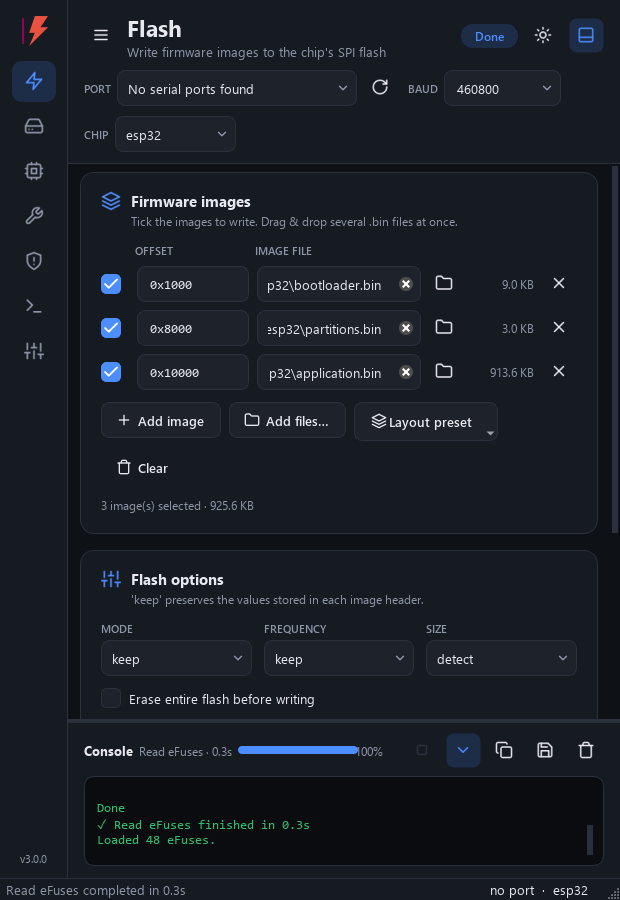
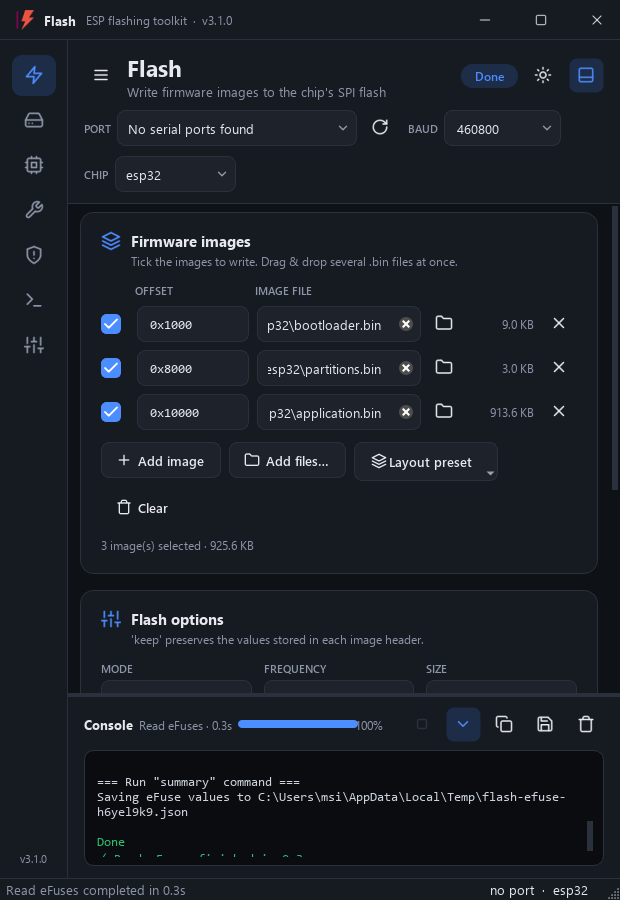
update version to 3.1.0 and implement custom title bar with window controls

diff --git a/src/flash/ui/titlebar.py b/src/flash/ui/titlebar.py
@@ -1,0 +1,229 @@
+#!/usr/bin/env python
+# coding=utf-8
+#? -------------------------------------------------------------------------------
+#?
+#?             __  _ __  __     __
+#?            / /_(_) /_/ /__  / /_  ____ ______
+#?           / __/ / __/ / _ \/ __ \/ __ `/ ___/
+#?          / /_/ / /_/ /  __/ /_/ / /_/ / /
+#?          \__/_/\__/_/\___/_.___/\__,_/_/
+#?
+#?
+#? Name:        titlebar.py
+#? Purpose:     Custom window chrome: a modern title bar (icon, title, minimize / maximize / close) and the frameless
+#?              window plumbing behind it. Dragging and edge-resizing are handed to the OS (startSystemMove /
+#?              startSystemResize), so Windows snap layouts, Aero shake and Linux window managers keep working.
+#?
+#? Author:      Mohamed Gueni ( mohamedgueni@outlook.com)
+#?
+#? Created:     05/09/2019
+#? -------------------------------------------------------------------------------
+#? -------------------------------------------------------------------------------
+from    __future__                  import  annotations
+
+import  sys
+
+from    PySide6.QtCore              import  QEvent, QObject, QPoint, QSize, Qt
+from    PySide6.QtGui               import  QIcon
+from    PySide6.QtWidgets           import  QApplication, QFrame, QHBoxLayout, QLabel, QToolButton, QWidget
+
+from    flash.ui.theme              import  theme
+from    flash.ui.widgets            import  set_icon
+#?----------------------------------------------------------------------------------------------------------------------------------------
+TITLEBAR_HEIGHT             = 40
+RESIZE_MARGIN               = 6                                                        # px from the window edge that start a resize
+#?----------------------------------------------------------------------------------------------------------------------------------------
+class TitleBar(QFrame):
+    """Draggable title bar with window buttons. Double-click toggles maximize."""
+
+    def __init__(self, window: QWidget, icon: QIcon, title: str, subtitle: str = "") -> None:
+        super().__init__(window)
+        self.setObjectName("TitleBar")
+        self.setFixedHeight(TITLEBAR_HEIGHT)
+        self._window        = window
+
+        lay                 = QHBoxLayout(self)
+        lay.setContentsMargins(14, 0, 0, 0)
+        lay.setSpacing(10)
+
+        self.icon_label     = QLabel()
+        self.icon_label.setPixmap(icon.pixmap(QSize(20, 20)))
+        self.icon_label.setAttribute(Qt.WidgetAttribute.WA_TransparentForMouseEvents)
+        lay.addWidget(self.icon_label)
+
+        self.title_label    = QLabel(title)
+        self.title_label.setObjectName("TitleText")
+        self.title_label.setAttribute(Qt.WidgetAttribute.WA_TransparentForMouseEvents)
+        lay.addWidget(self.title_label)
+
+        self.subtitle_label = QLabel(subtitle)
+        self.subtitle_label.setObjectName("TitleSub")
+        self.subtitle_label.setAttribute(Qt.WidgetAttribute.WA_TransparentForMouseEvents)
+        lay.addWidget(self.subtitle_label)
+        lay.addStretch(1)
+
+        self.min_btn        = self._window_button("win-min", "Minimize", window.showMinimized)
+        self.max_btn        = self._window_button("win-max", "Maximize", self.toggle_maximize)
+        self.close_btn      = self._window_button("win-close", "Close", window.close)
+        self.close_btn.setObjectName("WinClose")
+        self.close_btn.installEventFilter(self)                                        # white glyph on the red hover background
+        for b in (self.min_btn, self.max_btn, self.close_btn):
+            lay.addWidget(b)
+
+        window.installEventFilter(self)
+        theme().changed.connect(lambda *_: self.sync_state())
+        self.sync_state()
+
+    def _window_button(self, icon_name: str, tip: str, slot) -> QToolButton:
+        b                   = QToolButton()
+        b.setObjectName("WinButton")
+        b.setToolTip(tip)
+        b.setFixedSize(46, TITLEBAR_HEIGHT)
+        b.setIconSize(QSize(14, 14))
+        b.setFocusPolicy(Qt.FocusPolicy.NoFocus)
+        b.clicked.connect(slot)
+        set_icon(b, icon_name, "text")
+        return b
+
+    #?------------------------------------------------------------------------------------------------------------------------------------
+    #? Behaviour
+    #?------------------------------------------------------------------------------------------------------------------------------------
+    def toggle_maximize(self) -> None:
+        w                   = self._window
+        w.showNormal() if w.isMaximized() else w.showMaximized()
+
+    def sync_state(self) -> None:
+        maximized           = self._window.isMaximized()
+        set_icon(self.max_btn, "win-restore" if maximized else "win-max", "text")
+        self.max_btn.setToolTip("Restore down" if maximized else "Maximize")
+        active              = self._window.isActiveWindow()
+        for label in (self.title_label, self.subtitle_label, self.icon_label):
+            label.setEnabled(active)                                                   # dims the title when the window is inactive
+
+    def eventFilter(self, obj: QObject, event: QEvent) -> bool:                        # noqa: N802
+        etype               = event.type()
+        if obj is self._window and etype in (QEvent.Type.WindowStateChange, QEvent.Type.ActivationChange):
+            self.sync_state()
+        elif obj is self.close_btn and etype == QEvent.Type.Enter:
+            self.close_btn.setIcon(theme().icon("win-close", "#ffffff"))
+        elif obj is self.close_btn and etype == QEvent.Type.Leave:
+            set_icon(self.close_btn, "win-close", "text")
+        return False
+
+    def mousePressEvent(self, event) -> None:                                          # noqa: N802
+        if event.button() == Qt.MouseButton.LeftButton and self._window.windowHandle() is not None:
+            self._window.windowHandle().startSystemMove()                              # native drag: snap, multi-monitor, restore-on-drag
+            event.accept()
+            return
+        super().mousePressEvent(event)
+
+    def mouseDoubleClickEvent(self, event) -> None:                                    # noqa: N802
+        if event.button() == Qt.MouseButton.LeftButton:
+            self.toggle_maximize()
+            event.accept()
+            return
+        super().mouseDoubleClickEvent(event)
+#?----------------------------------------------------------------------------------------------------------------------------------------
+class FramelessResizer(QObject):
+    """Lets a frameless window be resized from its edges by watching mouse moves on its QWindow."""
+
+    EDGE_CURSORS            = {
+        Qt.Edge.LeftEdge: Qt.CursorShape.SizeHorCursor,
+        Qt.Edge.RightEdge: Qt.CursorShape.SizeHorCursor,
+        Qt.Edge.TopEdge: Qt.CursorShape.SizeVerCursor,
+        Qt.Edge.BottomEdge: Qt.CursorShape.SizeVerCursor,
+        Qt.Edge.LeftEdge | Qt.Edge.TopEdge: Qt.CursorShape.SizeFDiagCursor,
+        Qt.Edge.RightEdge | Qt.Edge.BottomEdge: Qt.CursorShape.SizeFDiagCursor,
+        Qt.Edge.RightEdge | Qt.Edge.TopEdge: Qt.CursorShape.SizeBDiagCursor,
+        Qt.Edge.LeftEdge | Qt.Edge.BottomEdge: Qt.CursorShape.SizeBDiagCursor,
+    }
+
+    def __init__(self, window: QWidget) -> None:
+        super().__init__(window)
+        self._window        = window
+        self._override      = False
+        window.winId()                                                                 # make sure the native QWindow exists
+        window.windowHandle().installEventFilter(self)
+
+    def _edges(self, pos: QPoint) -> Qt.Edge:
+        w                   = self._window
+        if w.isMaximized() or w.isFullScreen():
+            return Qt.Edge(0)
+        m, r                = RESIZE_MARGIN, w.rect()
+        edges               = Qt.Edge(0)
+        if pos.x() <= m:
+            edges          |= Qt.Edge.LeftEdge
+        elif pos.x() >= r.width() - m:
+            edges          |= Qt.Edge.RightEdge
+        if pos.y() <= m:
+            edges          |= Qt.Edge.TopEdge
+        elif pos.y() >= r.height() - m:
+            edges          |= Qt.Edge.BottomEdge
+        return edges
+
+    def _set_cursor(self, edges: Qt.Edge) -> None:
+        shape               = self.EDGE_CURSORS.get(edges)
+        if shape is not None:
+            if self._override:
+                QApplication.changeOverrideCursor(shape)
+            else:
+                QApplication.setOverrideCursor(shape)
+                self._override = True
+        elif self._override:
+            QApplication.restoreOverrideCursor()
+            self._override  = False
+
+    def eventFilter(self, obj: QObject, event: QEvent) -> bool:                        # noqa: N802
+        etype               = event.type()
+        if etype == QEvent.Type.MouseMove and not event.buttons():
+            self._set_cursor(self._edges(event.position().toPoint()))
+        elif etype == QEvent.Type.MouseButtonPress and event.button() == Qt.MouseButton.LeftButton:
+            edges           = self._edges(event.position().toPoint())
+            if edges:
+                self._set_cursor(Qt.Edge(0))
+                self._window.windowHandle().startSystemResize(edges)
+                return True
+        elif etype == QEvent.Type.Leave:
+            self._set_cursor(Qt.Edge(0))
+        return False
+#?----------------------------------------------------------------------------------------------------------------------------------------
+class WindowChrome:
+    """Turns a top-level window frameless and restores native niceties where the OS allows it."""
+
+    @staticmethod
+    def make_frameless(window: QWidget) -> None:
+        """Call before the window is shown."""
+        window.setWindowFlags(window.windowFlags() | Qt.WindowType.FramelessWindowHint)
+        window.setAttribute(Qt.WidgetAttribute.WA_TranslucentBackground, False)
+
+    @staticmethod
+    def polish(window: QWidget) -> FramelessResizer:
+        """Call once the window is shown: edge resizing plus Windows 11 corners / shadow / taskbar minimize."""
+        resizer             = FramelessResizer(window)
+        if sys.platform == "win32":
+            WindowChrome._windows_polish(int(window.winId()))
+        return resizer
+
+    @staticmethod
+    def _windows_polish(hwnd: int) -> None:
+        try:
+            import  ctypes
+            from    ctypes                      import  wintypes
+
+            dwm             = ctypes.windll.dwmapi
+            user32          = ctypes.windll.user32
+
+            class MARGINS(ctypes.Structure):
+                _fields_    = [("left", ctypes.c_int), ("right", ctypes.c_int),
+                               ("top", ctypes.c_int), ("bottom", ctypes.c_int)]
+
+            corner          = ctypes.c_int(2)                                          # DWMWCP_ROUND (Windows 11; ignored on 10)
+            dwm.DwmSetWindowAttribute(wintypes.HWND(hwnd), 33, ctypes.byref(corner), ctypes.sizeof(corner))
+            dwm.DwmExtendFrameIntoClientArea(wintypes.HWND(hwnd), ctypes.byref(MARGINS(1, 1, 1, 1)))   # drop shadow
+
+            GWL_STYLE, WS_MINIMIZEBOX, WS_SYSMENU = -16, 0x00020000, 0x00080000
+            style           = user32.GetWindowLongW(wintypes.HWND(hwnd), GWL_STYLE)
+            user32.SetWindowLongW(wintypes.HWND(hwnd), GWL_STYLE, style | WS_MINIMIZEBOX | WS_SYSMENU)  # taskbar click minimizes
+        except Exception:
+            pass
+#?----------------------------------------------------------------------------------------------------------------------------------------

diff --git a/src/flash/ui/main_window.py b/src/flash/ui/main_window.py
@@ -20,9 +20,10 @@
 #? -------------------------------------------------------------------------------
 from    __future__                    import  annotations
 
+import  sys
 from    pathlib                       import  Path
 
-from    PySide6.QtCore                import  QEasingCurve, QParallelAnimationGroup, QPropertyAnimation, QSize, Qt, QTimer
+from    PySide6.QtCore                import  QEasingCurve, QEvent, QParallelAnimationGroup, QPropertyAnimation, QSize, Qt, QTimer
 from    PySide6.QtGui                 import  QIcon, QKeySequence, QShortcut
 from    PySide6.QtWidgets             import  (QApplication, QButtonGroup, QComboBox, QFrame, QHBoxLayout, QLabel, QMainWindow, QMessageBox,
                                                QProgressBar, QSizePolicy, QSplitter, QStackedWidget, QToolButton, QVBoxLayout, QWidget)
@@ -41,7 +42,8 @@ from    flash.ui.pages.monitor_page   import  MonitorPage
 from    flash.ui.pages.settings_page  import  SettingsPage
 from    flash.ui.pages.tools_page     import  ToolsPage
 from    flash.ui.theme                import  theme
-from    flash.ui.widgets              import  Console, FlowLayout, StatusPill, Toast, icon_button, repolish, set_icon
+from    flash.ui.titlebar             import  TitleBar, WindowChrome
+from    flash.ui.widgets             import  Console, FlowLayout, StatusPill, Toast, icon_button, repolish, set_icon
 #?----------------------------------------------------------------------------------------------------------------------------------------
 SIDEBAR_EXPANDED            = 212
 SIDEBAR_COLLAPSED           = 68
@@ -55,18 +57,28 @@ class MainWindow(QMainWindow):
         self.setWindowIcon(QIcon(asset("flash.ico")))
         self.setMinimumSize(560, 480)
         self.setAcceptDrops(False)
+        WindowChrome.make_frameless(self)                                              # custom title bar replaces the OS one
 
         self.store          = StateStore()
         self.runner         = ToolRunner(self)
         self._sidebar_pinned: bool | None = None
         self._known_ports: set[str] = set()
+        self._resizer       = None
 
         root                = QWidget()
         root.setObjectName("Root")
-        h                   = QHBoxLayout(root)
+        outer               = QVBoxLayout(root)
+        outer.setContentsMargins(0, 0, 0, 0)
+        outer.setSpacing(0)
+        self.titlebar       = TitleBar(self, QIcon(asset("flash.ico")), APP_NAME, f"ESP flashing toolkit  ·  v{__version__}")
+        outer.addWidget(self.titlebar)
+        body                = QWidget()
+        h                   = QHBoxLayout(body)
         h.setContentsMargins(0, 0, 0, 0)
         h.setSpacing(0)
+        outer.addWidget(body, 1)
         self.setCentralWidget(root)
+        self._root          = root
 
         self.pages          = [FlashPage(self), MemoryPage(self), DevicePage(self), ToolsPage(self),
                                EfusePage(self), MonitorPage(self), SettingsPage(self)]
@@ -119,24 +131,8 @@ class MainWindow(QMainWindow):
         self.sidebar.setObjectName("Sidebar")
         self.sidebar.setFixedWidth(SIDEBAR_EXPANDED)
         lay                 = QVBoxLayout(self.sidebar)
-        lay.setContentsMargins(12, 16, 12, 12)
+        lay.setContentsMargins(12, 14, 12, 12)
         lay.setSpacing(2)
-
-        brand               = QHBoxLayout()
-        brand.setContentsMargins(6, 0, 0, 12)
-        self.brand_icon     = QLabel()
-        self.brand_icon.setPixmap(QIcon(asset("flash.ico")).pixmap(QSize(30, 30)))
-        brand.addWidget(self.brand_icon)
-        texts               = QVBoxLayout()
-        texts.setSpacing(0)
-        self.brand_name     = QLabel(APP_NAME)
-        self.brand_name.setObjectName("Brand")
-        self.brand_sub      = QLabel("ESP flashing toolkit")
-        self.brand_sub.setObjectName("BrandSub")
-        texts.addWidget(self.brand_name)
-        texts.addWidget(self.brand_sub)
-        brand.addLayout(texts, 1)
-        lay.addLayout(brand)
 
         self.nav_group      = QButtonGroup(self)
         self.nav_group.setExclusive(True)
@@ -494,8 +490,6 @@ class MainWindow(QMainWindow):
         style               = Qt.ToolButtonStyle.ToolButtonTextBesideIcon if expanded else Qt.ToolButtonStyle.ToolButtonIconOnly
         for b in self.nav_buttons:
             b.setToolButtonStyle(style)
-        self.brand_name.setVisible(expanded)
-        self.brand_sub.setVisible(expanded)
         if self.sidebar.width() == target:
             return
         if not animate:
@@ -513,6 +507,24 @@ class MainWindow(QMainWindow):
 
     def toggle_console(self) -> None:
         self.console_panel.setVisible(self.console_btn.isChecked())
+
+    def showEvent(self, event) -> None:                                                # noqa: N802
+        super().showEvent(event)
+        if self._resizer is None:                                                      # native handle exists now
+            self._resizer   = WindowChrome.polish(self)
+            self._sync_frame()
+
+    def changeEvent(self, event) -> None:                                              # noqa: N802
+        super().changeEvent(event)
+        if event.type() == QEvent.Type.WindowStateChange:
+            self._sync_frame()
+
+    def _sync_frame(self) -> None:
+        """Thin outline where the OS draws none (Linux / Windows 10); Windows 11 adds its own border and shadow."""
+        framed              = sys.platform != "win32" and not (self.isMaximized() or self.isFullScreen())
+        if self._root.property("framed") != framed:
+            self._root.setProperty("framed", framed)
+            repolish(self._root)
 
     def resizeEvent(self, event) -> None:                                              # noqa: N802
         super().resizeEvent(event)

diff --git a/src/flash/ui/icons.py b/src/flash/ui/icons.py
@@ -72,11 +72,18 @@ PATHS: dict[str, str]       = {
     "power": '<path d="M12 2v10"/><path d="M18.4 6.6a9 9 0 1 1-12.77.04"/>',
     "image": '<rect x="3" y="3" width="18" height="18" rx="2"/><circle cx="9" cy="9" r="2"/><path d="m21 15-3.1-3.1a2 2 0 0 0-2.8 0L6 21"/>',
     "scan": '<path d="M3 7V5a2 2 0 0 1 2-2h2M17 3h2a2 2 0 0 1 2 2v2M21 17v2a2 2 0 0 1-2 2h-2M7 21H5a2 2 0 0 1-2-2v-2M7 12h10"/>',
+    # window buttons (custom title bar)
+    "win-min": '<path d="M4 12h16"/>',
+    "win-max": '<rect x="4" y="4" width="16" height="16" rx="2.5"/>',
+    "win-restore": '<rect x="4" y="8" width="12" height="12" rx="2"/><path d="M8 8V6.5A2.5 2.5 0 0 1 10.5 4h7A2.5 2.5 0 0 1 20 6.5v7a2.5 2.5 0 0 1-2.5 2.5H16"/>',
+    "win-close": '<path d="M5 5l14 14M19 5 5 19"/>',
 }
 #?----------------------------------------------------------------------------------------------------------------------------------------
 def svg(name: str, color: str, stroke: float = 2.0) -> str:
     body                    = PATHS.get(name, PATHS["info"])
     fill                    = color if name in ("play",) else "none"
+    if name.startswith("win-"):
+        stroke              = 1.6                                                      # thin glyphs like native caption buttons
     return (f'<svg xmlns="http://www.w3.org/2000/svg" viewBox="0 0 24 24" fill="{fill}" stroke="{color}" '
             f'stroke-width="{stroke}" stroke-linecap="round" stroke-linejoin="round">{body}</svg>')
 #?----------------------------------------------------------------------------------------------------------------------------------------

diff --git a/src/flash/ui/theme.py b/src/flash/ui/theme.py
@@ -91,6 +91,18 @@ QWidget {{ color: {p.text}; font-size: 10pt; }}
 QMainWindow, #Root {{ background: {p.bg}; }}
 QToolTip {{ background: {p.surface2}; color: {p.text}; border: 1px solid {p.border}; padding: 6px 8px; border-radius: 6px; }}
 
+/* ---------- custom title bar ---------- */
+#TitleBar {{ background: {p.surface}; border-bottom: 1px solid {p.border}; }}
+#TitleText {{ font-weight: 700; font-size: 10pt; }}
+#TitleText:disabled, #TitleSub:disabled {{ color: {p.muted}; }}
+#TitleSub {{ color: {p.muted}; font-size: 9pt; }}
+QToolButton#WinButton, QToolButton#WinClose {{ background: transparent; border: none; border-radius: 0; padding: 0; }}
+QToolButton#WinButton:hover {{ background: {p.hover}; }}
+QToolButton#WinButton:pressed {{ background: {p.border}; }}
+QToolButton#WinClose:hover {{ background: #e81123; }}
+QToolButton#WinClose:pressed {{ background: #f1707a; }}
+#Root[framed="true"] {{ border: 1px solid {p.border}; }}
+
 /* ---------- sidebar ---------- */
 #Sidebar {{ background: {p.surface}; border-right: 1px solid {p.border}; }}
 #Brand {{ font-size: 15pt; font-weight: 700; }}

diff --git a/src/flash/__init__.py b/src/flash/__init__.py
@@ -17,7 +17,7 @@
 #? Created:     05/09/2019
 #? -------------------------------------------------------------------------------
 #? -------------------------------------------------------------------------------
-__version__                 = "3.0.0"
+__version__                 = "3.1.0"
 __author__                  = "Mohamed Gueni"
 __url__                     = "https://github.com/Gueni/flash"
 
